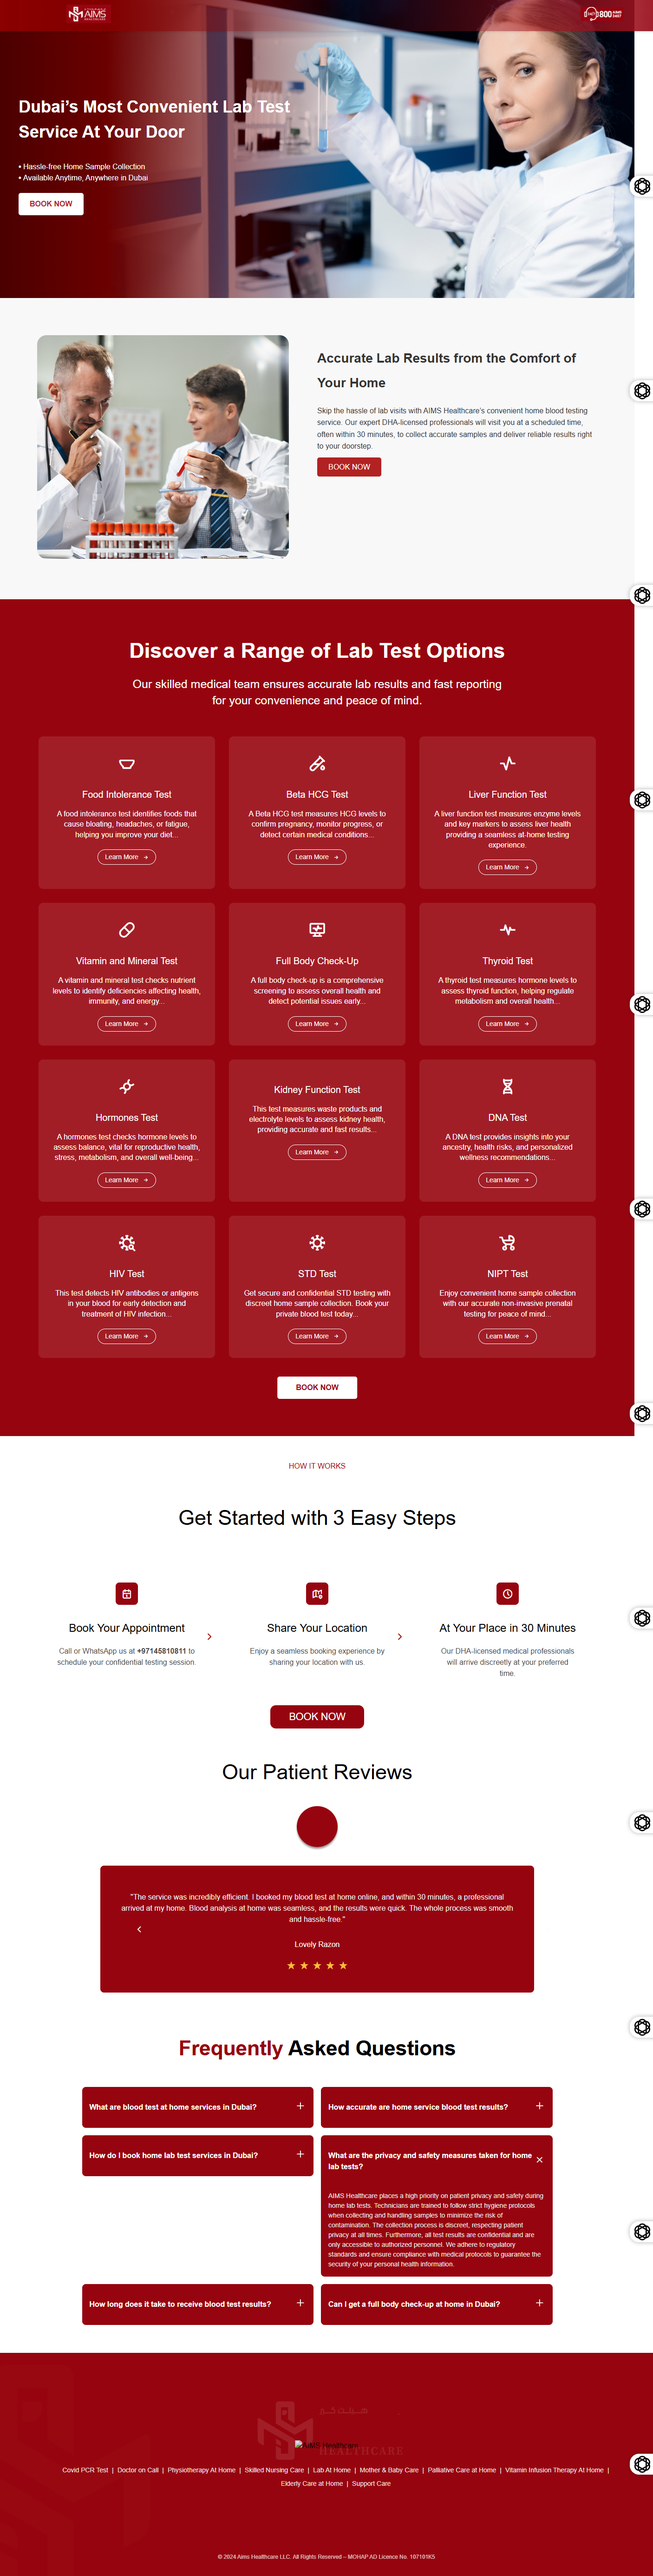
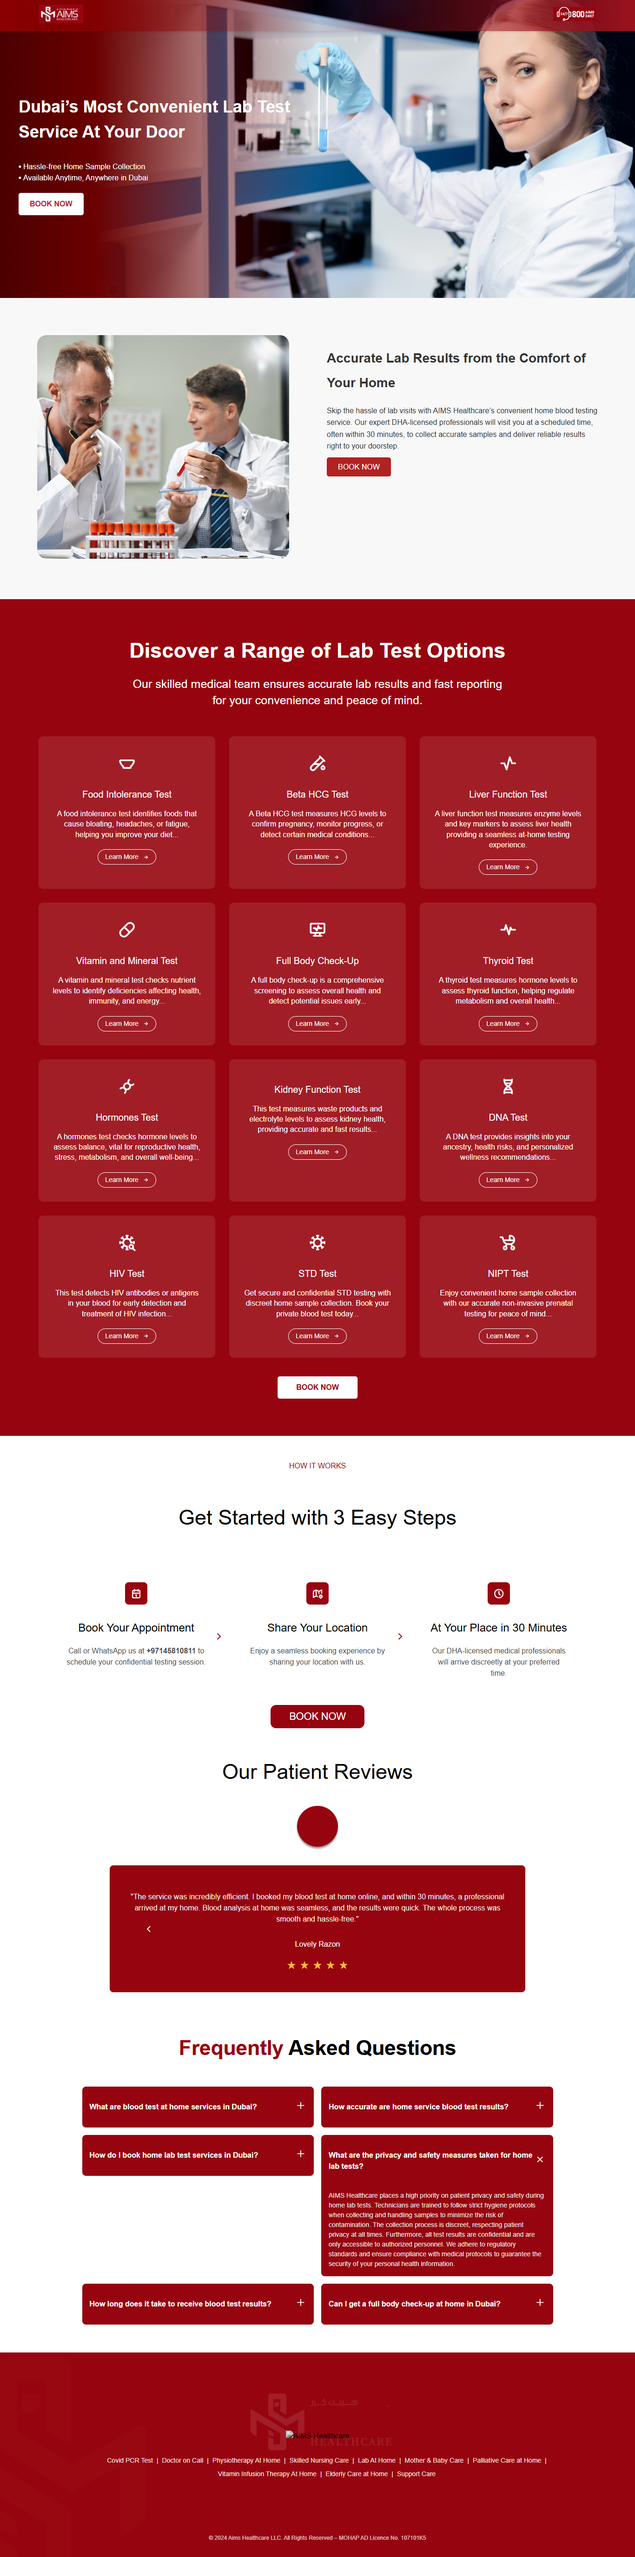
Update including images for Readme

diff --git a/public/css/style.css b/public/css/style.css
@@ -1,7 +1,14 @@
+
+*,
+*::before,
+*::after {
+  box-sizing: border-box;
+}
 body {
     font-family: Arial, sans-serif;
     margin: 0;
     padding: 0;
+    overflow-x: hidden;
 }
 .top-navbar {
     position: fixed;
